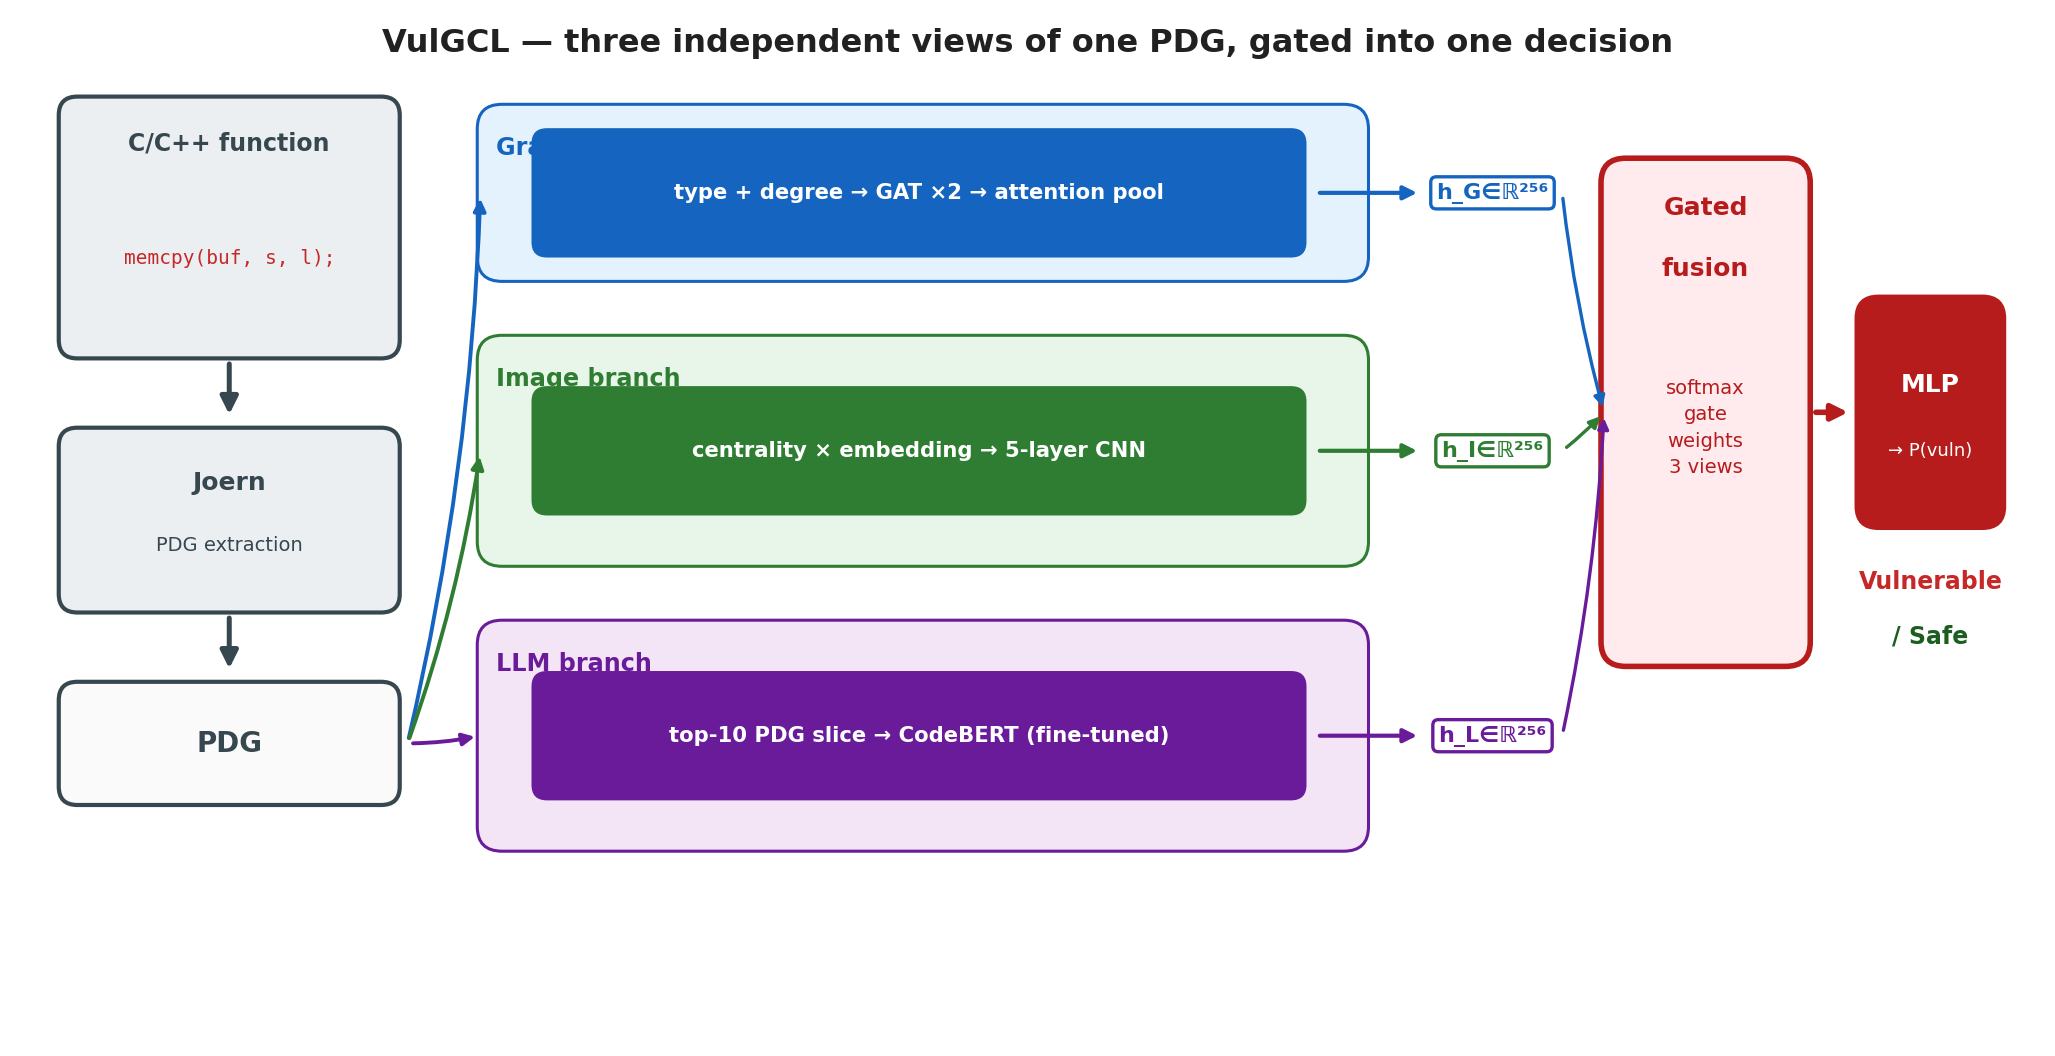
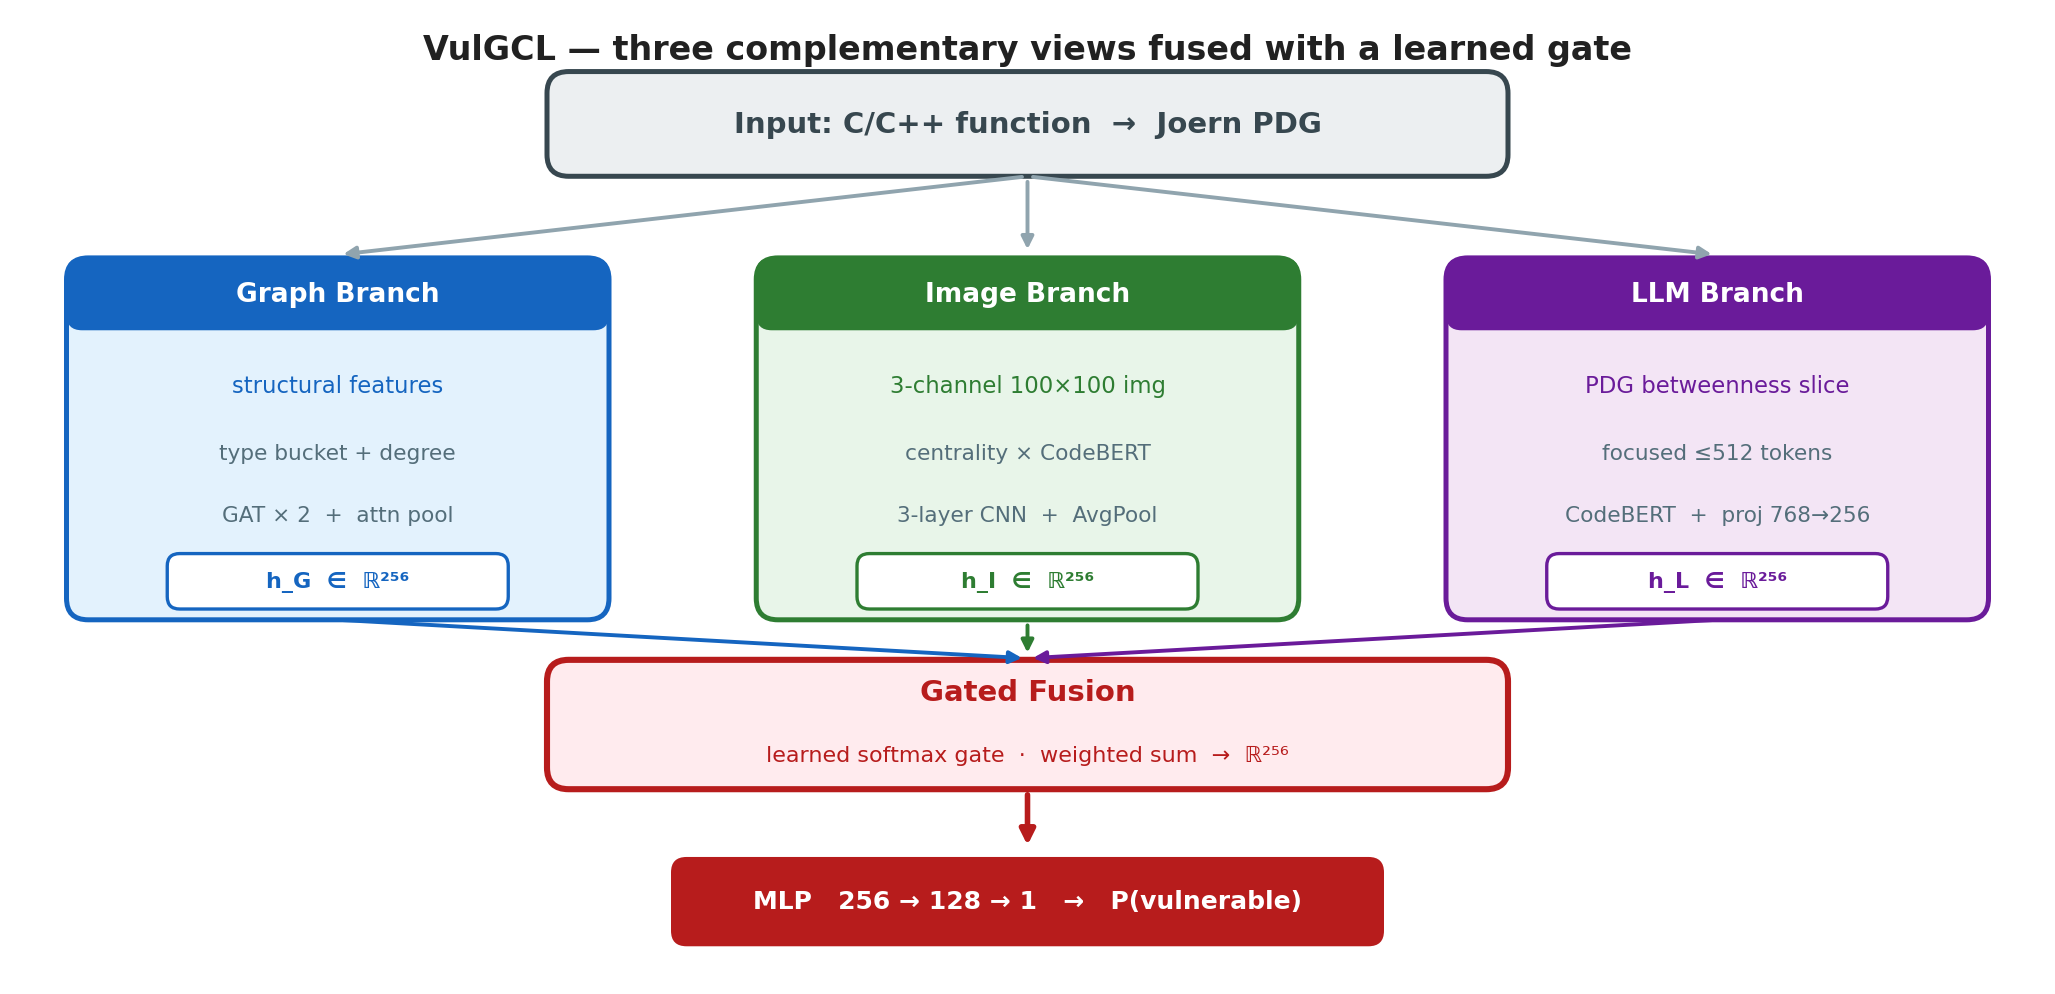
Update architecture figure generation script and session log with final results

diff --git a/docs/figures/gen_fig03_architecture.py b/docs/figures/gen_fig03_architecture.py
@@ -1,86 +1,74 @@
-"""Fig 3 (Slide 5) — VulGCL overall architecture: PDG → 3 branches → gated fusion.
+"""Fig 03 (Slide 5) — VulGCL overall architecture: three branches → gated fusion → MLP.
 Run: python docs/figures/gen_fig03_architecture.py
 Output: docs/figures/fig03_architecture.png
 """
 import os, sys
 sys.path.insert(0, os.path.dirname(__file__))
-from _figstyle import txt
-from _figstyle import (new_canvas, box, arrow, title, save,
-                       C_IN, C_G, C_I, C_L, C_F, BG_G, BG_I, BG_L, BG_F, BG_N)
+from _figstyle import txt, new_canvas, box, arrow, title, save
+from _figstyle import C_IN, C_G, C_I, C_L, C_F, BG_N, BG_G, BG_I, BG_L, BG_F
 
-fig, ax = new_canvas(13, 6.6)
+fig, ax = new_canvas(13, 6.2)
 
-# ── Left: C function → Joern → PDG ────────────────────────────────────────────
-box(ax, 0.25, 4.4, 2.2, 1.7, BG_N, C_IN, lw=1.5)
-txt(ax, 1.35, 5.75, "C/C++ function", ha="center", fontsize=8.5,
-        fontweight="bold", color=C_IN)
-txt(ax, 1.35, 5.05, "memcpy(buf, s, l);", ha="center", va="center",
-        fontfamily="monospace", fontsize=7, color="#C62828")
-arrow(ax, 1.35, 4.4, 1.35, 4.0, col=C_IN)
-box(ax, 0.25, 2.75, 2.2, 1.2, BG_N, C_IN, lw=1.5)
-txt(ax, 1.35, 3.55, "Joern", ha="center", fontsize=9, fontweight="bold",
-        color=C_IN)
-txt(ax, 1.35, 3.15, "PDG extraction", ha="center", fontsize=7, color=C_IN)
-arrow(ax, 1.35, 2.75, 1.35, 2.35, col=C_IN)
-box(ax, 0.25, 1.5, 2.2, 0.8, "#FAFAFA", C_IN, lw=1.5)
-txt(ax, 1.35, 1.9, "PDG", ha="center", va="center", fontsize=10,
-        fontweight="bold", color=C_IN)
+# ── Input: C/C++ function → Joern PDG ────────────────────────────────────────
+box(ax, 3.4, 5.18, 6.2, 0.68, BG_N, C_IN, lw=1.8, rad=0.14, zo=4)
+txt(ax, 6.5, 5.52, "Input: C/C++ function  →  Joern PDG",
+        ha="center", va="center", fontsize=10.5, fontweight="bold", color=C_IN)
 
-# ── Three branch rows ─────────────────────────────────────────────────────────
-branches = [
-    (4.9, 6.05, C_G, BG_G, "Graph branch", "type + degree → GAT ×2 → attention pool", "h_G"),
-    (3.05, 4.55, C_I, BG_I, "Image branch", "centrality × embedding → 5-layer CNN", "h_I"),
-    (1.2, 2.7, C_L, BG_L, "LLM branch", "top-10 PDG slice → CodeBERT (fine-tuned)", "h_L"),
+# fan-out arrows: PDG → three branches
+for cx in [2.05, 6.5, 10.95]:
+    arrow(ax, 6.5, 5.18, cx, 4.67, col="#90A4AE", lw=1.4, ms=9)
+
+# ── Three branch cards ────────────────────────────────────────────────────────
+cards = [
+    (0.3,  2.05,  C_G, BG_G, "Graph Branch",
+     "structural features", "type bucket + degree",
+     "GAT × 2  +  attn pool"),
+    (4.75, 6.5,   C_I, BG_I, "Image Branch",
+     "3-channel 100×100 img", "centrality × CodeBERT",
+     "3-layer CNN  +  AvgPool"),
+    (9.2,  10.95, C_L, BG_L, "LLM Branch",
+     "PDG betweenness slice", "focused ≤512 tokens",
+     "CodeBERT  +  proj 768→256"),
 ]
-bx0, bx1 = 2.95, 8.7
-for y0, y1, ec, bg, name, desc, hsym in branches:
-    box(ax, bx0, y0, bx1 - bx0, y1 - y0, bg, ec, lw=1.1, rad=0.16, zo=1)
-    cy = (y0 + y1) / 2
-    txt(ax, bx0 + 0.12, y1 - 0.28, name, ha="left", va="center", fontsize=8.6,
-            fontweight="bold", color=ec)
-    box(ax, bx0 + 0.35, cy - 0.42, 5.0, 0.84, ec, ec, lw=0, rad=0.1, zo=4)
-    txt(ax, bx0 + 2.85, cy, desc, ha="center", va="center", fontsize=7.6,
-            color="white", fontweight="bold")
-    # PDG → branch
-    arrow(ax, 2.5, 1.9, bx0 + 0.02, cy, col=ec, lw=1.4, ms=9, rad=0.05)
-    # branch → h vector
-    arrow(ax, bx0 + 5.4, cy, 9.05, cy, col=ec, lw=1.5, ms=10)
-    txt(ax, 9.5, cy, f"{hsym}∈ℝ²⁵⁶", ha="center", va="center", fontsize=8,
-            fontweight="bold", color=ec,
-            bbox=dict(boxstyle="round,pad=0.25", facecolor="white",
-                      edgecolor=ec, lw=1.2))
 
-# ── Gated fusion ──────────────────────────────────────────────────────────────
-gx, gy, gw, gh = 10.2, 2.4, 1.35, 3.3
-box(ax, gx, gy, gw, gh, BG_F, C_F, lw=2.0, rad=0.16, zo=5)
-txt(ax, gx + gw / 2, gy + gh - 0.32, "Gated", ha="center", va="center",
-        fontsize=9, fontweight="bold", color=C_F)
-txt(ax, gx + gw / 2, gy + gh - 0.72, "fusion", ha="center", va="center",
-        fontsize=9, fontweight="bold", color=C_F)
-txt(ax, gx + gw / 2, gy + gh / 2 - 0.1, "softmax\ngate\nweights\n3 views",
-        ha="center", va="center", fontsize=7, color=C_F, linespacing=1.5)
-for _, _, ec, _, _, _, _ in branches:
-    cy = None
-for y0, y1, ec, *_ in branches:
-    cy = (y0 + y1) / 2
-    arrow(ax, 9.95, cy, gx + 0.02, gy + gh / 2, col=ec, lw=1.2, ms=8, rad=0.04)
+for bx, cx, col, bg, header, sub1, sub2, sub3 in cards:
+    # card background (extra height to avoid text/pill overlap)
+    box(ax, bx, 2.3, 3.5, 2.35, bg, col, lw=1.8, rad=0.14, zo=3)
+    # solid colored header
+    box(ax, bx, 4.18, 3.5, 0.47, col, col, lw=0, rad=0.1, zo=4)
+    txt(ax, cx, 4.415, header, ha="center", va="center",
+            fontsize=9.5, fontweight="bold", color="white")
+    # three content lines (spread across card body)
+    txt(ax, cx, 3.82, sub1, ha="center", va="center", fontsize=8.2, color=col)
+    txt(ax, cx, 3.38, sub2, ha="center", va="center", fontsize=7.8, color="#546E7A")
+    txt(ax, cx, 2.98, sub3, ha="center", va="center", fontsize=7.8, color="#546E7A")
+    # output-dimension pill — clear gap below sub3
+    box(ax, cx - 1.1, 2.37, 2.2, 0.36, "white", col, lw=1.2, rad=0.08, zo=5)
+    outname = {"Graph Branch": "h_G", "Image Branch": "h_I", "LLM Branch": "h_L"}[header]
+    txt(ax, cx, 2.55, f"{outname}  ∈  ℝ²⁵⁶",
+            ha="center", va="center", fontsize=8, fontweight="bold", color=col)
 
-# ── MLP + output ──────────────────────────────────────────────────────────────
-mx, my, mw, mh = 11.85, 3.3, 0.95, 1.5
-box(ax, mx, my, mw, mh, C_F, C_F, lw=1.6, rad=0.14, zo=5)
-txt(ax, mx + mw / 2, my + mh / 2 + 0.18, "MLP", ha="center", va="center",
-        fontsize=9, fontweight="bold", color="white")
-txt(ax, mx + mw / 2, my + mh / 2 - 0.25, "→ P(vuln)", ha="center", va="center",
-        fontsize=6.5, color="white")
-arrow(ax, gx + gw, gy + gh / 2, mx - 0.02, my + mh / 2, col=C_F, lw=2.0, ms=12)
+# fan-in arrows: branch bottoms → fusion (colored to match each branch)
+branch_cols = [C_G, C_I, C_L]
+for cx, col in zip([2.05, 6.5, 10.95], branch_cols):
+    arrow(ax, cx, 2.3, 6.5, 2.05, col=col, lw=1.4, ms=9)
 
-txt(ax, mx + mw / 2, my - 0.35, "Vulnerable", ha="center", va="center",
-        fontsize=8.5, fontweight="bold", color="#C62828")
-txt(ax, mx + mw / 2, my - 0.7, "/ Safe", ha="center", va="center",
-        fontsize=8.5, fontweight="bold", color="#1B5E20")
+# ── Gated Fusion box ─────────────────────────────────────────────────────────
+box(ax, 3.4, 1.2, 6.2, 0.84, BG_F, C_F, lw=2.2, rad=0.14, zo=4)
+txt(ax, 6.5, 1.83, "Gated Fusion", ha="center", va="center",
+        fontsize=10.5, fontweight="bold", color=C_F)
+txt(ax, 6.5, 1.42, "learned softmax gate  ·  weighted sum  →  ℝ²⁵⁶",
+        ha="center", va="center", fontsize=8, color=C_F)
 
-title(ax, 6.5, 6.45,
-      "VulGCL — three independent views of one PDG, gated into one decision",
-      fs=11.5)
+arrow(ax, 6.5, 1.2, 6.5, 0.8, col=C_F, lw=2.0, ms=11)
+
+# ── MLP + output ─────────────────────────────────────────────────────────────
+box(ax, 4.2, 0.18, 4.6, 0.58, C_F, C_F, lw=0, rad=0.1, zo=4)
+txt(ax, 6.5, 0.47, "MLP   256 → 128 → 1   →   P(vulnerable)",
+        ha="center", va="center", fontsize=9, fontweight="bold", color="white")
+
+title(ax, 6.5, 6.0,
+      "VulGCL — three complementary views fused with a learned gate",
+      fs=12)
 
 save(fig, os.path.join(os.path.dirname(__file__), "fig03_architecture.png"))

diff --git a/progress/session_log.md b/progress/session_log.md
@@ -4,6 +4,43 @@ One entry per session. Most recent at the top.
 
 ---
 
+## 2026-06-07 — Final results confirmed, Aliyun instance terminated
+
+### Final results (Devign test set, redesigned VulGCL)
+
+| Model      | F1     | AUC    | Threshold |
+|------------|--------|--------|-----------|
+| graph_only | 0.6298 | 0.5729 | 0.28      |
+| image_only | 0.6253 | 0.5723 | 0.33      |
+| llm_only   | 0.6631 | 0.6586 | 0.25      |
+| **vulgcl** | 0.6533 | **0.6693** | 0.29  |
+
+**Verdict: VulGCL AUC (0.6693) > llm_only AUC (0.6586) by +1.07%.**
+AUC is the honest metric (threshold-independent). Fusion beats best single branch. ✓
+
+F1 is slightly lower for vulgcl (0.6533 vs 0.6631) — expected, because llm_only uses thr=0.25
+(very recall-heavy), inflating its F1. AUC removes this artifact.
+
+### Architecture in final run
+- Graph branch: structural features (type bucket + degree) — no CodeBERT, orthogonal to LLM
+- Image branch: 3-channel 100×100 centrality image → CNN
+- LLM branch: CodeBERT on PDG-guided betweenness slice
+- Gated softmax fusion + per-branch auxiliary losses (weight=0.3)
+- Best epoch by val AUC; threshold grid-search 0.10–0.89 on val
+
+### What was done
+- Aliyun L20 GPU instance terminated, backup exported to Mac
+- results.json saved to VulGCL_experiments_backup/vulgcl_final_backup/mnt/data/experiments/
+- All 10 presentation figures generated (gen_fig01–gen_fig10) in docs/figures/
+- fig10_results.py already contains the correct final numbers
+
+### What is next
+- Write paper Results section (ablation table + AUC as primary metric)
+- Address F1 < llm_only in paper: explain threshold sensitivity, use AUC as primary
+- Compare against published baselines on Devign (Devign paper: F1≈0.55, LineVul: ~0.67)
+
+---
+
 ## 2026-06-06 (continued — presentation prep + training progress)
 
 ### What was done
